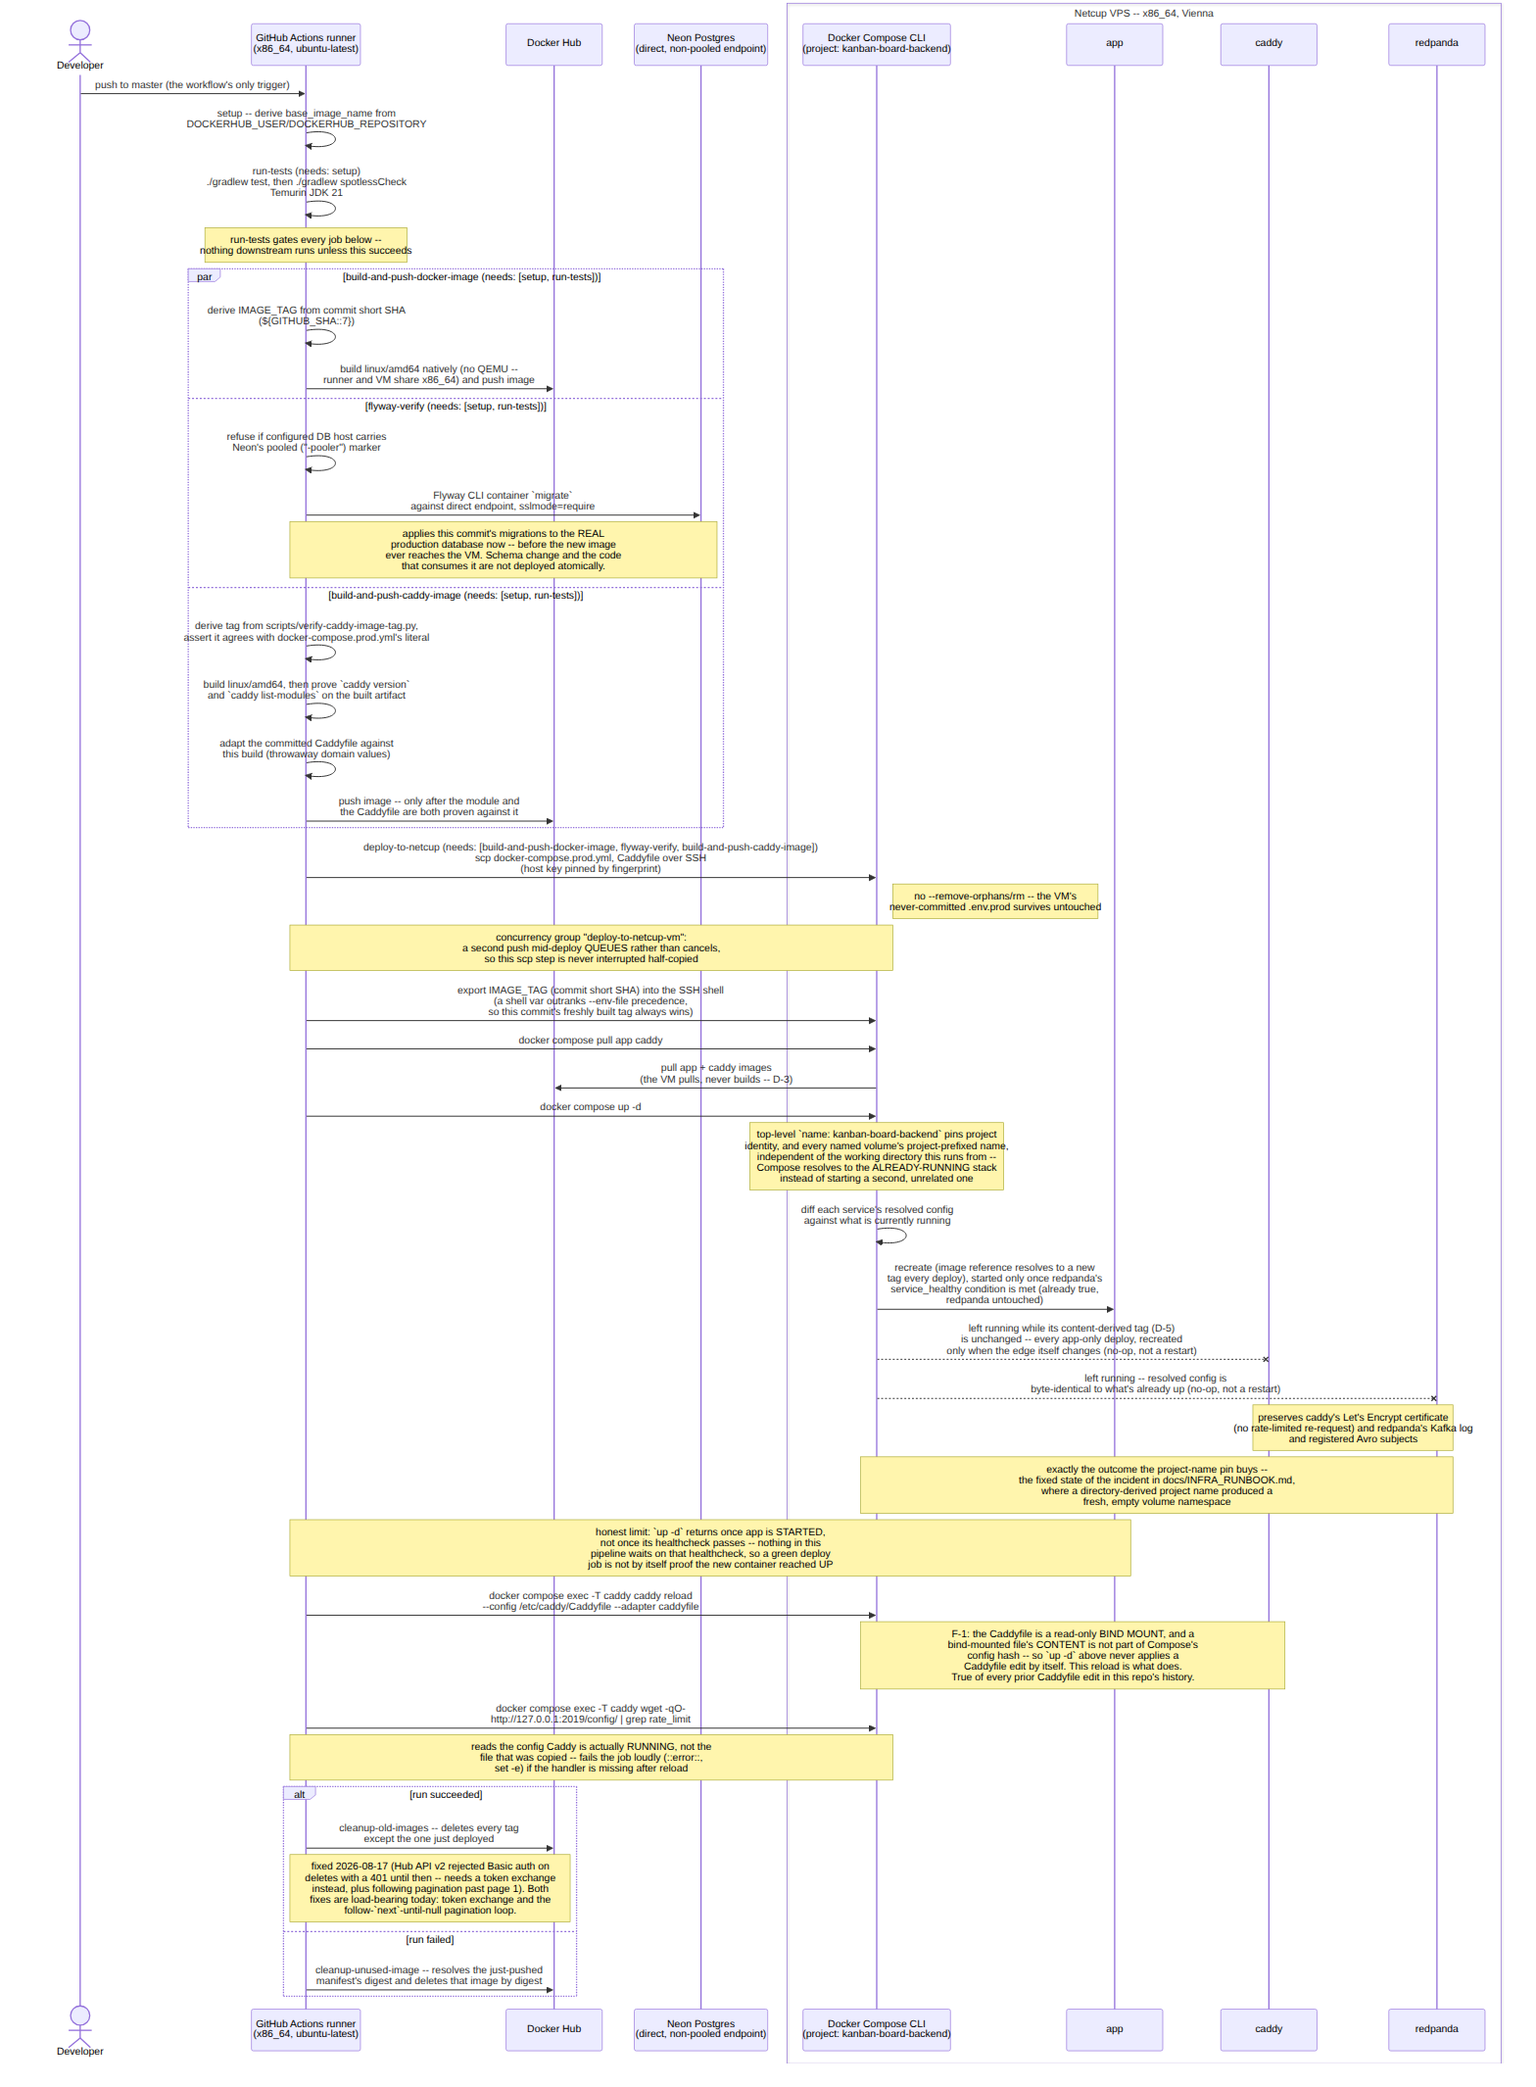
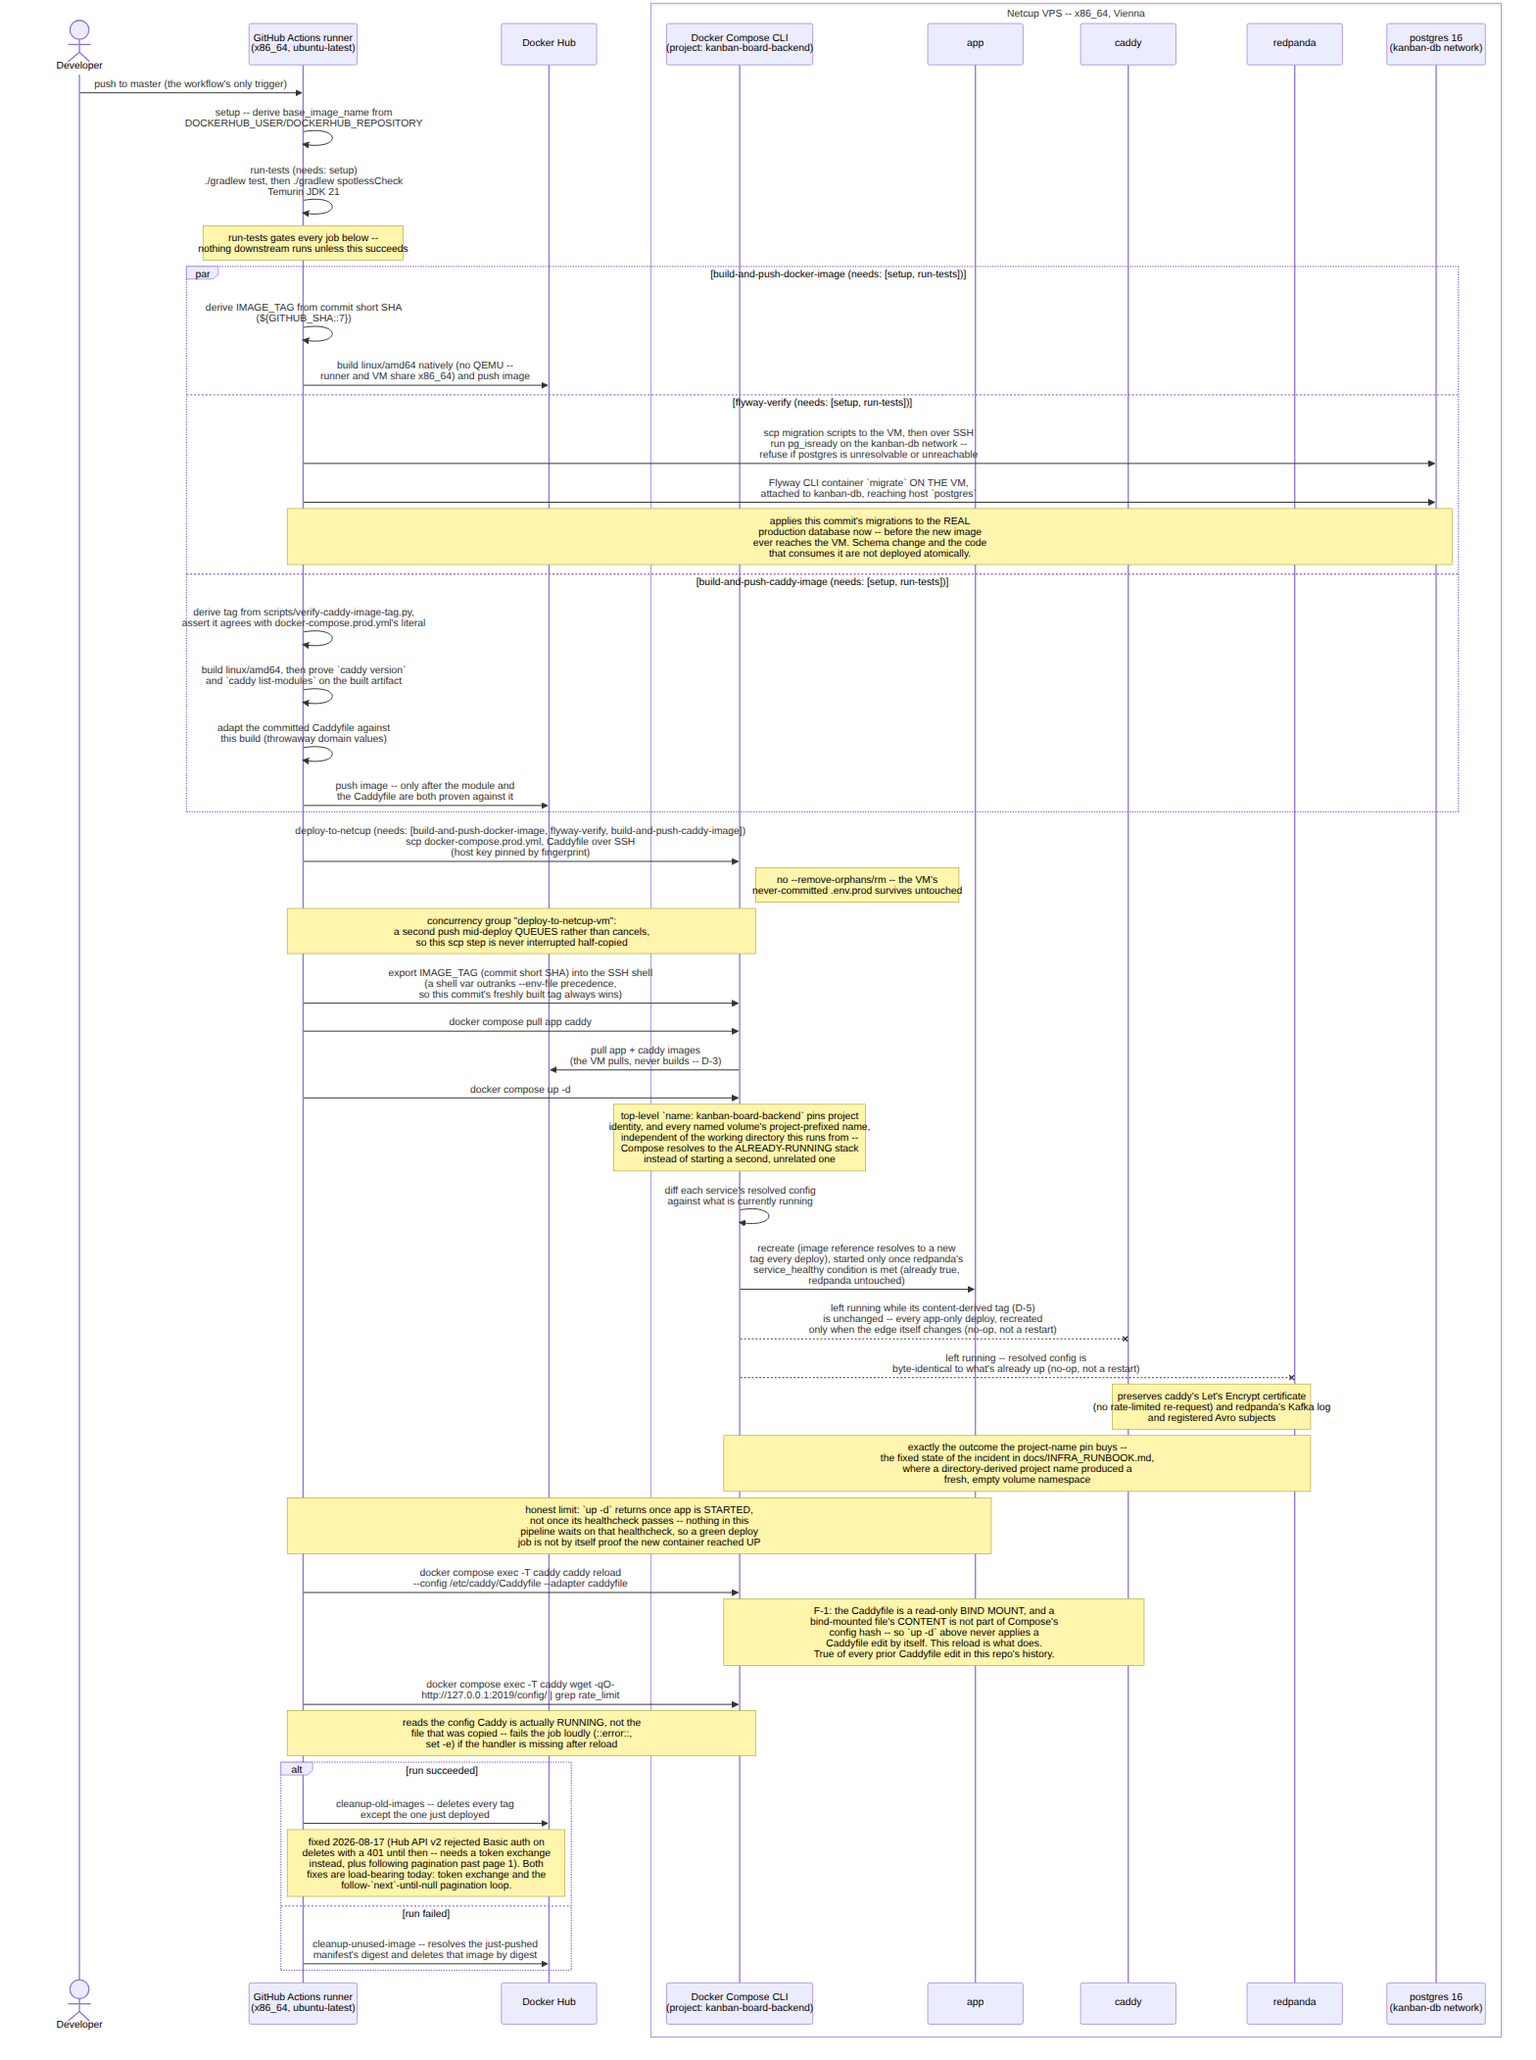
docs: correct the infra architecture for the Phase 11 database move
docs/INFRA_ARCHITECTURE.md and both diagrams still described Neon serverless
Postgres as the system of record, four months after Phase 11 (2026-08-26) moved
the database onto the VM and deleted the Neon project. Found by a reviewer during
quick task 260903-dvp and deliberately left out of that task's scope.

Three claims were not merely stale but false, and each one would mislead in a
different direction:

- "the VM itself holds no user data of record" -- it now holds all of it. The
  postgres container's named volume is the system of record, so losing it loses
  user data outright rather than operational continuity. Linked to the still-open
  backup todo, because that inverts the severity of having no backup.
- "the connection from the app to Neon is a second, independently encrypted hop:
  sslmode=require, channel_binding=require" -- there is no second hop. The JDBC
  URL in application.properties carries neither parameter; the app reaches
  postgres by container name on the internal kanban-db network. Stated explicitly
  so the absence of TLS is not read as an oversight and "fixed".
- "flyway-verify runs against Neon's direct endpoint, refusing a -pooler
  hostname" -- it runs ON THE VM over SSH, attached to kanban-db, guarded by
  pg_isready against that network. Neither the endpoint nor that failure mode
  exists.

The physical diagram moves postgres inside the VM trust boundary and drops the
public-internet JDBC edge, so nothing now crosses that boundary except the
[…]

diff --git a/docs/INFRA_ARCHITECTURE.md b/docs/INFRA_ARCHITECTURE.md
@@ -1,12 +1,19 @@
 # Infrastructure Architecture
 
 This document describes the production deployment topology introduced by v1.2's Infra Migration
-milestone (Phase 5): a Netcup VPS Lite 2 G12s VM (Vienna, x86_64) running the application, a
-self-hosted Redpanda broker, and Caddy for automatic public HTTPS, backed externally by Neon
-serverless Postgres (Frankfurt) and delivered via GitHub Actions. The original target was Oracle
+milestone (Phase 5) and amended by v1.3's Phase 11: a Netcup VPS Lite 2 G12s VM (Vienna, x86_64)
+running the application, a self-hosted PostgreSQL 16 instance, a self-hosted Redpanda broker, and
+Caddy for automatic public HTTPS, delivered via GitHub Actions. The original target was Oracle
 Cloud's Always Free A1 Flex (ARM64); it was replaced after Oracle's free-tier capacity in the
 planned region proved structurally unavailable — see `docs/INFRA_RUNBOOK.md` and Phase 5 Plan
 05-03's SUMMARY for the pivot rationale.
+
+**The database moved onto the VM in Phase 11 (2026-08-26).** Neon serverless Postgres (Frankfurt)
+was the system of record through v1.2 and this document described it as such until 2026-09-03; the
+Neon project has since been deleted. Every claim below about where data lives, what crosses the VM
+boundary, and how migrations reach the database changed with that move, which is why the
+correction is called out here rather than silently applied — a reader who remembers the Neon
+topology needs to know the difference is real and not a documentation slip.
 
 Per [`docs/DIAGRAM_CONVENTIONS.md`](DIAGRAM_CONVENTIONS.md), each diagram below is one deliberate
 Kruchten 4+1 view, not an ad hoc mix of concerns. The two views chosen are the ones that matter
@@ -35,17 +42,29 @@ punched through the VM's network layers by Docker are 80 and 443.
 **Where TLS terminates:** Caddy terminates public TLS at the VM boundary using an automatically
 obtained, publicly trusted Let's Encrypt certificate (no self-signed/internal TLS). Traffic from
 Caddy to the app inside the VM is plain HTTP — safe only because that hop never leaves the
-internal Docker network. The connection from the app to Neon is a second, independently encrypted
-hop: TLS required (`sslmode=require`) with channel binding (`channel_binding=require`), terminated
-between the app container and Neon's endpoint, unrelated to Caddy's certificate.
+internal Docker network. **There is no second TLS hop.** The app reaches Postgres at
+`jdbc:postgresql://${DB_HOST}:${DB_PORT}/${DB_NAME}` with `DB_HOST=postgres` — a container name on
+the internal `kanban-db` Docker network — and the JDBC URL in `application.properties` carries no
+`sslmode` and no `channel_binding` parameter. That is safe for the same reason the Caddy→app hop
+is: it never leaves the VM. It is worth stating explicitly because the pre-Phase-11 version of this
+document described an encrypted app→Neon hop over the public internet, and someone reading the
+absence of TLS here as an oversight would be re-introducing a requirement that no longer applies.
 
-**Stateful components and where state lives:** the VM itself holds no user data of record — every
-piece of durable application state lives either in Neon (the system of record for all domain data)
-or in two named Docker volumes scoped to operational/transport concerns: Redpanda's data volume
-(the Kafka log and Schema Registry's internal topics — replayable operational state, not the
+**Stateful components and where state lives:** the VM holds the system of record. This is the
+single biggest consequence of Phase 11 and inverts what this section said before: durable
+application state now lives in the `postgres` container's named volume on this VM, not in a managed
+provider. Alongside it sit two volumes scoped to operational/transport concerns — Redpanda's data
+volume (the Kafka log and Schema Registry's internal topics: replayable operational state, not the
 source of truth) and Caddy's certificate/state volume (so container recreation reuses the existing
-Let's Encrypt certificate instead of triggering a rate-limited re-request). Losing either named
-volume loses operational continuity, not user data.
+Let's Encrypt certificate instead of triggering a rate-limited re-request). Losing either of those
+two loses operational continuity; **losing the Postgres volume loses user data outright.**
+
+That raises a real, currently-open exposure rather than a theoretical one: there is no backup. See
+`docs/INFRA_RUNBOOK.md`'s "Backups and restore" section, which documents a `pg_dump`/`pg_restore`
+procedure that has been written but never executed, and the todo
+`.planning/todos/pending/2026-08-20-no-documented-backup-restore-runbook-for-prod-db.md`, which is
+deliberately still open for the scheduled dump, off-host storage, retention policy and one proven
+test restore.
 
 ## Scenario (+1) View — Delivery Path
 
@@ -63,19 +82,25 @@ are deliberately not drawn here; that is this diagram's known limit, not an omis
 <sub>[diagram source](diagrams/infra-delivery-scenario.mmd)</sub>
 
 **Externally reachable vs. internal-only (delivery path):** the GitHub Actions runner reaches
-Docker Hub and Neon's direct endpoint over the public internet (both require real network
-egress); the SSH hop to the VM is authenticated via a pinned host-key fingerprint, not left to
-`StrictHostKeyChecking` defaults. None of these delivery-path connections touch Redpanda or the
-app's internal-only listeners: the pipeline talks to the VM's SSH port only, and Caddy's public
-HTTPS is not part of the delivery path at all.
+Docker Hub over the public internet, and nothing else — since Phase 11 there is no managed database
+endpoint for it to reach. The SSH hop to the VM is authenticated via a pinned host-key fingerprint,
+not left to `StrictHostKeyChecking` defaults. None of these delivery-path connections touch
+Redpanda, Postgres or the app's internal-only listeners: the pipeline talks to Docker Hub and the
+VM's SSH port, and Caddy's public HTTPS is not part of the delivery path at all.
 
 **Where TLS terminates (delivery path):** the SSH connection from the runner to the VM is
-encrypted end-to-end by SSH itself, independent of Caddy's certificate. The `flyway-verify` job
-runs the pinned Flyway CLI container's `migrate` against this repo's own
-`src/main/resources/db/migration` scripts, over Neon's **direct** (non-pooled) endpoint
-specifically for this job — a guard step refuses to proceed if the configured `DB_HOST` carries
-Neon's `-pooler` marker, since transaction-mode pooling does not support DDL/schema migration the
-way a direct connection does (see `docs/INFRA_RUNBOOK.md`).
+encrypted end-to-end by SSH itself, independent of Caddy's certificate — and it is now the *only*
+encrypted delivery-path hop that carries database access, because the migration no longer travels
+over the public internet at all.
+
+`flyway-verify` runs **on the VM**, not on the runner. The runner SCPs this repo's
+`src/main/resources/db/migration` scripts to the VM and then, over SSH, runs the pinned Flyway CLI
+container attached to the internal `kanban-db` Docker network, reaching the database as the
+container name `postgres`. A guard step first runs `pg_isready` against that same network and
+refuses to proceed if the target cannot be resolved or reached, rather than letting Flyway fail
+against an unreachable host. Pre-Phase-11 this job ran on the runner against Neon's direct
+(non-pooled) endpoint and its guard refused a `-pooler` hostname; both that endpoint and that
+failure mode are gone.
 
 **Stateful components (delivery path):** Docker Hub holds the built image tags (build artifacts,
 not user data); GitHub Actions itself holds no durable state between runs. No step in this
@@ -134,7 +159,14 @@ This document describes `docker-compose.prod.yml`, `Caddyfile`, `docker/caddy/Do
 `build-and-push-caddy-image` jobs' `linux/amd64` platform target (the deploy target pivoted from
 Oracle A1 Flex/ARM64 to Netcup/x86_64 in Phase 5), the 14 job names and the job graph (`needs:`
 edges) in `deploy.yml`, and `docker-compose.prod.yml`'s top-level `name: kanban-board-backend`
-project pin plus the `app` and `caddy` services' `image:` references. If any of those facts
-changes — a job renamed or added, a build platform changed, or any of those `docker-compose.prod.yml`
-lines changed — update this document, and the diagrams it links to, in the same change: it is the
-single checked-in description of what actually runs where.
+project pin plus the `app`, `caddy` and `postgres` services' `image:` references. If any of those
+facts changes — a job renamed or added, a build platform changed, or any of those
+`docker-compose.prod.yml` lines changed — update this document, and the diagrams it links to, in
+the same change: it is the single checked-in description of what actually runs where.
+
+**Where the database lives is on that list deliberately, added 2026-09-03.** It was not, and that
+is how this document went on describing Neon as the system of record for the four months after
+Phase 11 moved the database onto the VM — including a TLS hop that no longer exists and a Flyway
+job that no longer runs where it said. The facts most worth listing here are the ones a reader
+would never think to re-check, because they read as settled background rather than as
+configuration.

diff --git a/.planning/todos/pending/2026-09-03-caddy-service-has-no-mem-limit.md b/.planning/todos/pending/2026-09-03-caddy-service-has-no-mem-limit.md
@@ -1,0 +1,43 @@
+---
+created: 2026-09-03T00:00:00.000Z
+title: "The caddy service has no mem_limit, and its memory is now attacker-influenced"
+area: infra
+severity: minor
+files:
+
+  - docker-compose.prod.yml
+  - docs/INFRA_RUNBOOK.md
+
+---
+
+## Problem
+
+Filed from quick task 260903-dvp (edge rate limiting).
+
+`caddy` is the only service in `docker-compose.prod.yml` without a `mem_limit`. That was
+unremarkable while it was a stock reverse proxy with a fixed working set (~20 MB RSS measured).
+Adding the rate limiter changed the shape: the handler holds per-key state keyed on client address,
+so an attacker with many source addresses now influences how much memory the edge allocates.
+
+The bound was measured during that task and is not alarming, which is why this is minor rather
+than a defect. Per-key state is a preallocated ring of `maxEvents` `time.Time` values (24 B each),
+so 120 + 20 events is ~3.1 KB per address touching both zones; 100k distinct addresses inside one
+window is roughly 350 MB against ~2.65 GiB documented host headroom. The module also sweeps expired
+keys every 60s by default, so that figure is a per-window peak rather than accumulation.
+
+## Solution
+
+Do NOT simply add a cap — that is exactly what was declined during 260903-dvp. Every other
+`mem_limit` in that file carries a measured rung ladder in `docs/INFRA_RUNBOOK.md` (see the
+`postgres` service's comment for the established shape: descend rungs against a real workload until
+one fails, then step back up), and an unmeasured cap on the only container answering :443 risks
+OOM-killing the edge — turning a bounded memory concern into a total outage.
+
+So: measure first, using the project's own established method. Drive the limiter to a realistic
+key cardinality (`scripts/loadtest/` is the obvious starting point, extended to vary the source
+address rather than repeat one), watch `docker stats` for the `caddy` container across the sweep
+interval, and pick a rung from the observed peak with the same headroom factor the other services
+used. Then write the ladder into the runbook alongside the others.
+
+Alternative worth considering while measuring: lowering the general zone's `events` bounds the
+per-key ring directly, and may be cheaper than a container cap.

diff --git a/.planning/todos/pending/2026-09-03-429-response-is-not-an-rfc-7807-problemdetail.md b/.planning/todos/pending/2026-09-03-429-response-is-not-an-rfc-7807-problemdetail.md
@@ -1,0 +1,39 @@
+---
+created: 2026-09-03T00:00:00.000Z
+title: "A 429 from the edge rate limiter does not carry the RFC 7807 ProblemDetail envelope"
+area: api
+severity: minor
+files:
+
+  - Caddyfile
+  - src/main/java/com/vrudenko/kanban_board/handler/GlobalExceptionHandler.java
+
+---
+
+## Problem
+
+Filed from quick task 260903-dvp (edge rate limiting), where it was a knowingly deferred decision
+rather than an oversight — see the "What is deliberately NOT here" block in `Caddyfile`.
+
+Every error this API emits is `application/problem+json` with a stable `code`, produced either by
+`GlobalExceptionHandler` or by `ProblemDetailAuthenticationEntryPoint`. The 429 is the one
+exception: it is generated by Caddy's `rate_limit` handler and never reaches the JVM, so it returns
+Caddy's plain default error body. A client written against the documented envelope — reading
+`code` to branch on the failure — gets a response shape it cannot parse, for the one status most
+likely to need programmatic handling (back off and retry).
+
+## Solution
+
+Add a `handle_errors 429` block to the `{$APP_DOMAIN}` site block emitting a body matching the
+project's envelope, with a `code` consistent with the existing set.
+
+**The acceptance criterion is the reason this was deferred, not the body itself:** it must be
+proven that the module's `Retry-After` header survives being rewritten by an error handler. That
+header is the actionable part of a 429, and shipping an unproven header interaction alongside the
+limiter itself would have made any failure ambiguous between the two. Verify by driving a real
+429 through the custom image and asserting `Retry-After` is still present and numeric — the local
+harness in `scripts/loadtest/` already produces 429s and observed `Retry-After: 297` before the
+error handler existed, so that value is the baseline to compare against.
+
+Also decide whether the nonprod site block needs the same treatment. It has no limiter, so it
+cannot emit a 429 today; adding one there would be dead configuration.
